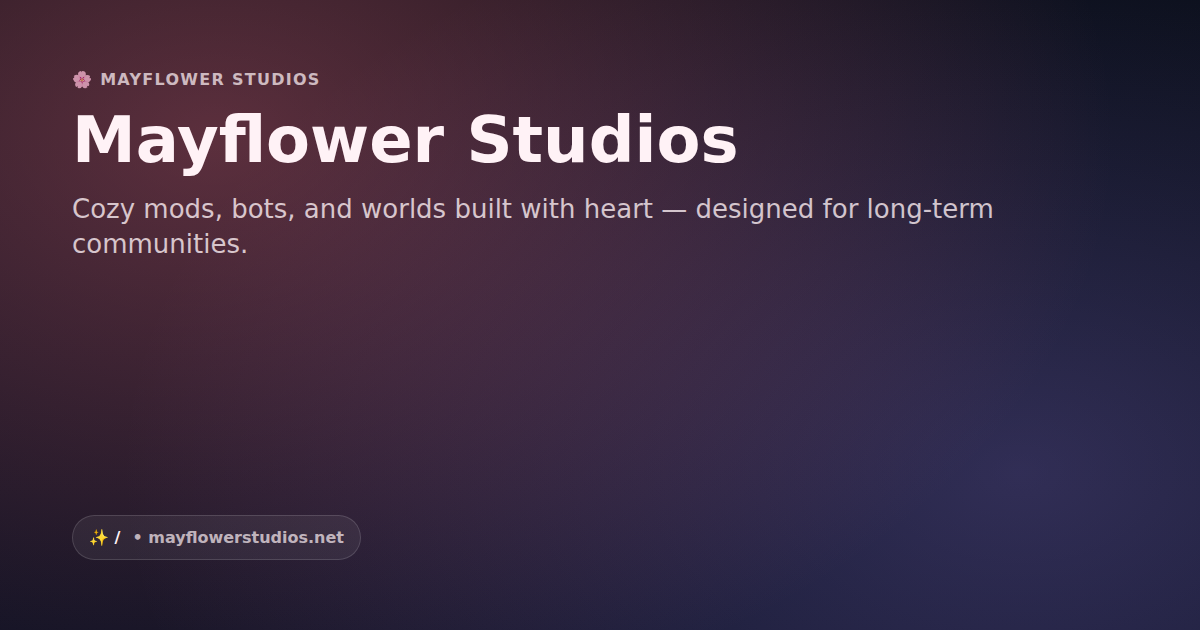
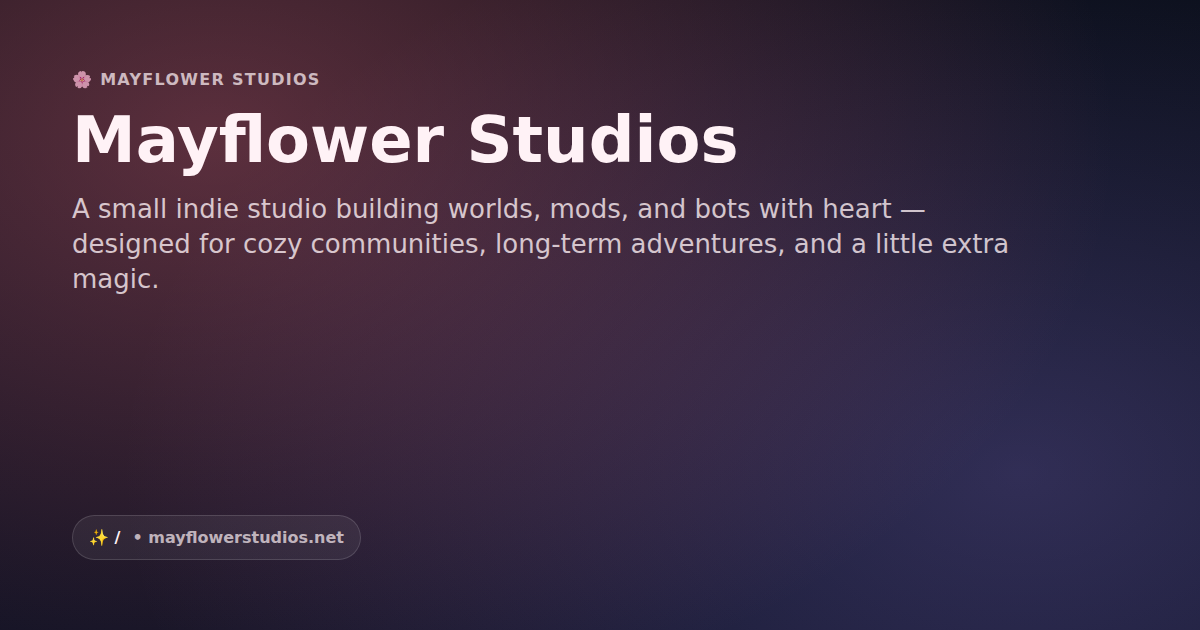
Auto-generate OG preview cards

Changed region(s): [[0.0617, 0.3016, 0.8325, 0.4825]]

diff --git a/index.html b/index.html
@@ -131,7 +131,7 @@
   <!-- OG:START -->
 <meta name="description" content="A small indie studio building worlds, mods, and bots with heart — designed for cozy communities, long-term adventures, and a little extra magic." />
 <meta property="og:title" content="Mayflower Studios" />
-<meta property="og:description" content="Cozy mods, bots, and worlds built with heart — designed for long-term communities." />
+<meta property="og:description" content="A small indie studio building worlds, mods, and bots with heart — designed for cozy communities, long-term adventures, and a little extra magic." />
 <meta property="og:url" content="https://mayflowerstudios.net/" />
 <meta property="og:type" content="website" />
 <meta property="og:image" content="https://mayflowerstudios.net/assets/og/home.png" />
@@ -139,7 +139,7 @@
 <meta property="og:image:height" content="630" />
 <meta name="twitter:card" content="summary_large_image" />
 <meta name="twitter:title" content="Mayflower Studios" />
-<meta name="twitter:description" content="Cozy mods, bots, and worlds built with heart — designed for long-term communities." />
+<meta name="twitter:description" content="A small indie studio building worlds, mods, and bots with heart — designed for cozy communities, long-term adventures, and a little extra magic." />
 <meta name="twitter:image" content="https://mayflowerstudios.net/assets/og/home.png" />
 <!-- OG:END -->
 </head>
